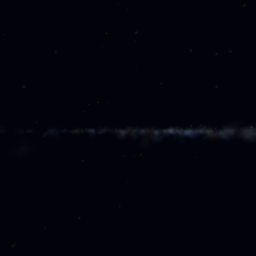
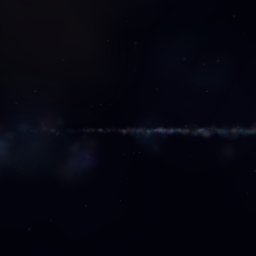
[feat] the shipped sky re-baked from closer in, and one nudge dimmer
- The pair is re-baked from 42% out instead of 55% (same seed, same galaxy) —
  the band spreads wider across the sky and the core region broadens, which is
  the "a bit more scattered" ask. Bonus: the closer pose costs fewer
  collisions — 96,734 of 100,500 placed (3.7% lost, down from 6.6%) — because
  the same stars now occupy more of the sphere. The bake stays byte-lossless
  through the fflate PNG path (verified by readback).
- DISPLAY_EXP 2.0 -> 2.3: "still a tad bright" — the field dims one more
  notch; the brightest few remain points.

diff --git a/src/b3d-skybox.ts b/src/b3d-skybox.ts
@@ -224,14 +224,14 @@ uniform vec4 b3dStarInfo;
 DISPLAY EXPONENT — the look, not the data.
 
 The encoded gamma (BRIGHT_GAMMA) spends the 8 bits where the magnitudes are;
-this extra exponent shapes how they PRESENT. 2.0 (net m² on the recovered
-magnitude) reads like a log scale: a mid star is a quarter of its linear
+this extra exponent shapes how they PRESENT. 2.3 (net m^2.3 on the recovered
+magnitude) reads like a log scale: a mid star is under a fifth of its linear
 brightness, the faint mass falls away, and only the brightest few stay bright
 points. Tonio: "the galaxy should be mostly subtle with only a few actual
-bright points of light" — 1.0 blew the band out to white, 1.5 was still too
-bright on screen, 2.0 is where the judgement landed.
+bright points of light" — 1.0 blew the band out to white, 2.0 was a tad
+bright, 2.3 is where the judgement landed.
 */
-#define DISPLAY_EXP 2.0
+#define DISPLAY_EXP 2.3
 
 /** One reconstructed point, given its sub-texel position and its look. */
 vec3 b3dPoint(
